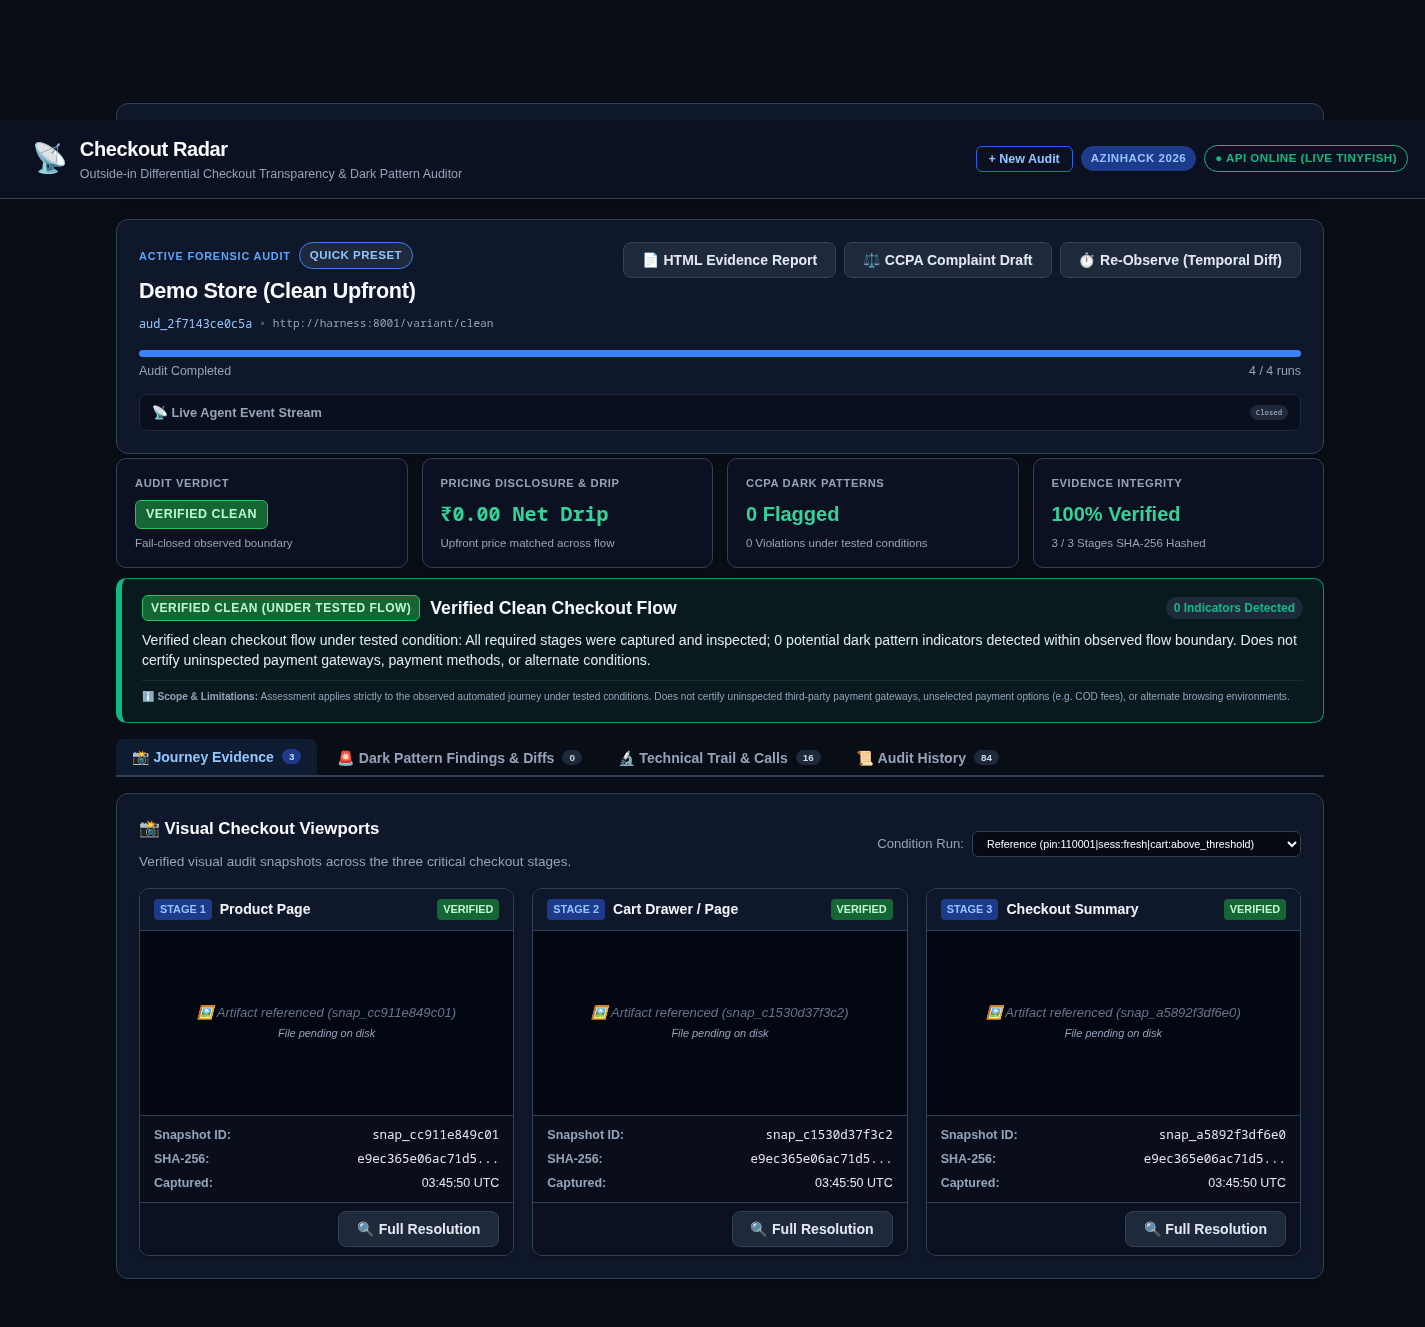
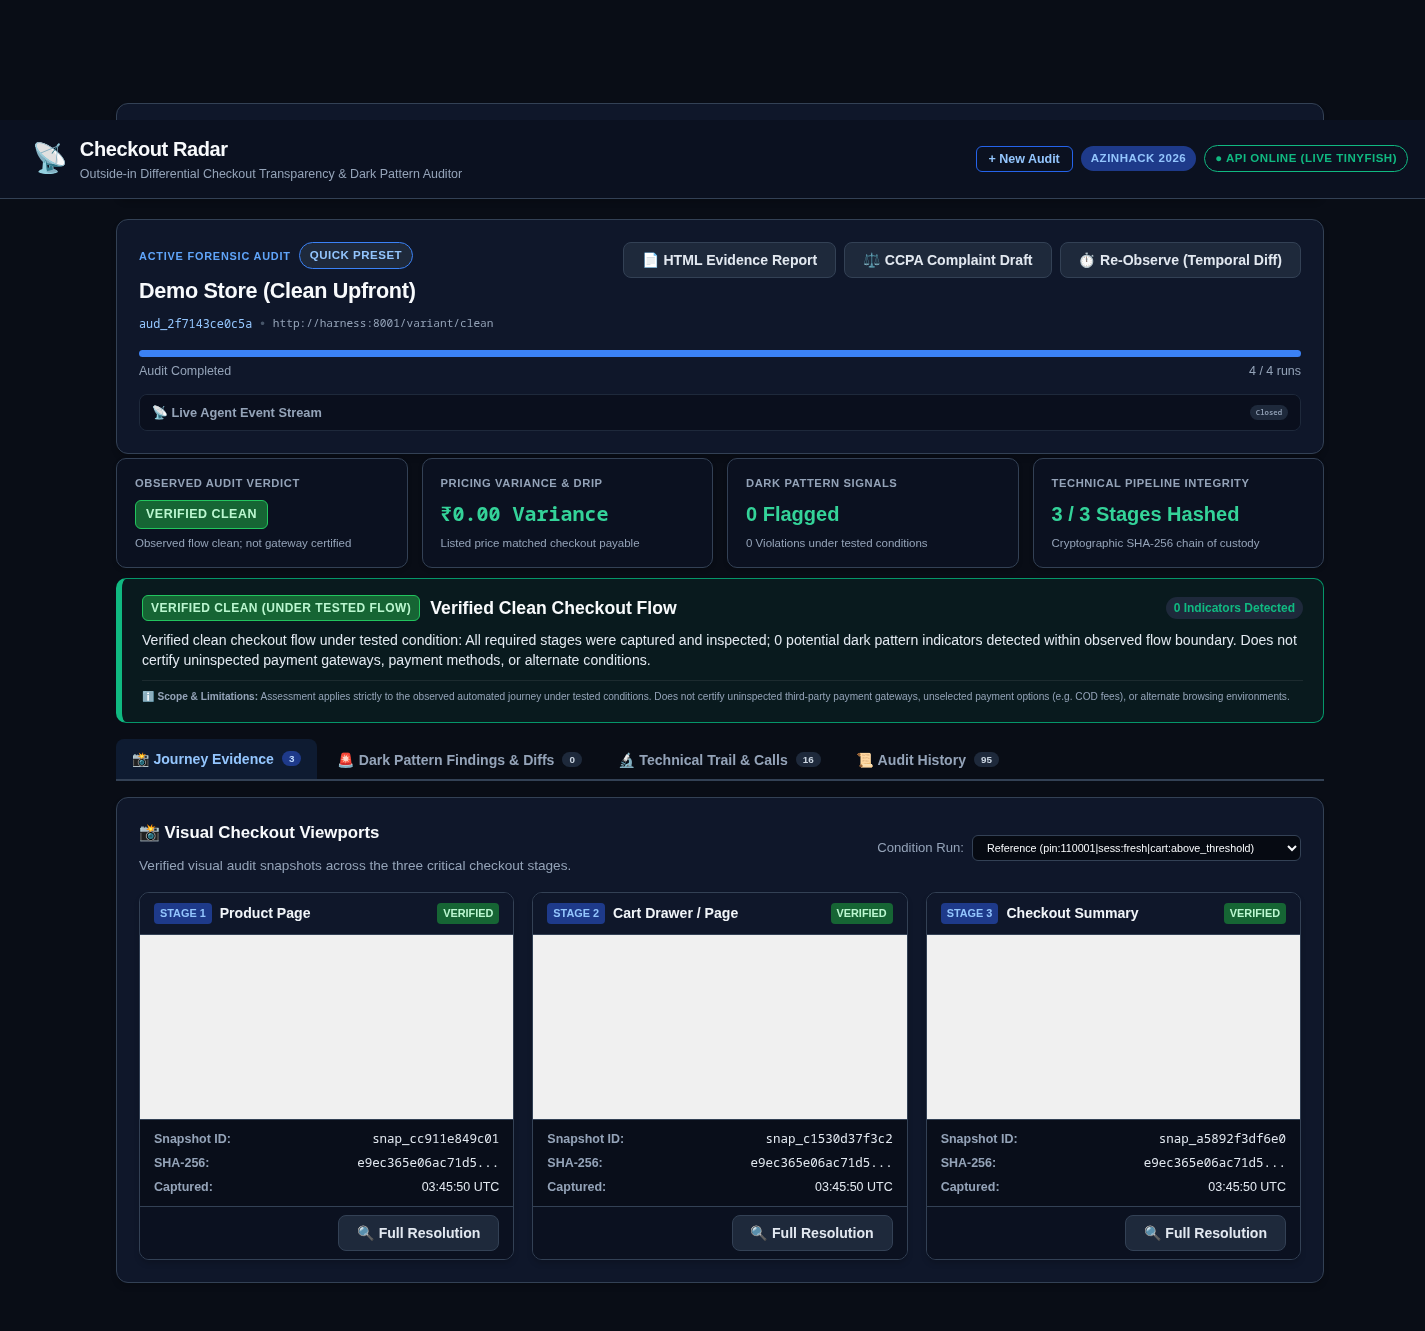
fix(ui): polish scorecard forensic precision, state reset, provenance tags, and touch usability

diff --git a/frontend/app.js b/frontend/app.js
@@ -90,8 +90,11 @@ function toggleLauncher(forceState) {
     }
 }
 
+let currentTargetMerchant = null;
+
 function setTarget(url, name) {
     document.getElementById("input-url").value = url;
+    currentTargetMerchant = name || null;
 }
 
 // -------------------------------------------------------------
@@ -153,10 +156,15 @@ async function launchAudit() {
     btnSubmit.innerText = "Launching Matrix...";
 
     try {
+        const reqBody = { input_url: inputUrl, preset: preset };
+        if (currentTargetMerchant) {
+            reqBody.merchant = currentTargetMerchant;
+        }
+
         const resp = await fetch("/audits", {
             method: "POST",
             headers: { "Content-Type": "application/json" },
-            body: JSON.stringify({ input_url: inputUrl, preset: preset })
+            body: JSON.stringify(reqBody)
         });
         const data = await resp.json();
         currentAuditId = data.id;
@@ -350,15 +358,15 @@ function renderExecutiveScorecard(det, findings, diffs, runs) {
     if (isClean) {
         badgeEl.classList.add("badge-clean");
         badgeEl.innerText = "VERIFIED CLEAN";
-        subEl.innerText = "Fail-closed observed boundary";
+        subEl.innerText = "Observed flow clean; not gateway certified";
     } else if (hasIndicators) {
         badgeEl.classList.add("badge-indicators");
         badgeEl.innerText = "INDICATORS DETECTED";
-        subEl.innerText = `${findings.length} dark pattern indicators`;
+        subEl.innerText = `${findings.length} empirical candidate indicator(s)`;
     } else {
         badgeEl.classList.add("badge-inconclusive");
         badgeEl.innerText = "INCONCLUSIVE AUDIT";
-        subEl.innerText = "Missing / obstructed flow";
+        subEl.innerText = "Journey incomplete; clean status denied";
     }
 
     // KPI 2: Pricing Disclosures & Drip Impact
@@ -375,21 +383,21 @@ function renderExecutiveScorecard(det, findings, diffs, runs) {
     });
 
     if (dripFeeMinor > 0) {
-        priceValEl.innerText = `+₹${(dripFeeMinor / 100).toFixed(2)}`;
+        priceValEl.innerText = `+₹${(dripFeeMinor / 100).toFixed(2)} Drip Fee`;
         priceValEl.style.color = "#f87171";
-        priceSubEl.innerText = `${lateLabel} added at checkout`;
+        priceSubEl.innerText = `${lateLabel} disclosed at checkout summary`;
     } else if (isClean) {
-        priceValEl.innerText = `₹0.00 Net Drip`;
+        priceValEl.innerText = `₹0.00 Variance`;
         priceValEl.style.color = "#34d399";
-        priceSubEl.innerText = "Upfront price matched across flow";
+        priceSubEl.innerText = "Listed price matched checkout payable";
     } else if (isInconclusive) {
-        priceValEl.innerText = `Unverified`;
+        priceValEl.innerText = `Uninspected`;
         priceValEl.style.color = "#fbbf24";
-        priceSubEl.innerText = "Checkout summary not inspected";
+        priceSubEl.innerText = "Checkout payable stage not reached";
     } else {
-        priceValEl.innerText = `₹0.00 Net Drip`;
+        priceValEl.innerText = `₹0.00 Variance`;
         priceValEl.style.color = "#93c5fd";
-        priceSubEl.innerText = "No unexpected fees disclosed";
+        priceSubEl.innerText = "No unexpected charges observed";
     }
 
     // KPI 3: CCPA Dark Pattern Indicators
@@ -403,7 +411,7 @@ function renderExecutiveScorecard(det, findings, diffs, runs) {
     indValEl.innerText = `${findings.length} Flagged`;
     if (findings.length > 0) {
         indValEl.style.color = "#f87171";
-        indSubEl.innerText = `${highCount} High, ${medCount} Med, ${lowCount} Low`;
+        indSubEl.innerText = `${highCount} High, ${medCount} Med, ${lowCount} Low (Non-adjudicative)`;
     } else {
         indValEl.style.color = "#34d399";
         indSubEl.innerText = "0 Violations under tested conditions";
@@ -418,16 +426,15 @@ function renderExecutiveScorecard(det, findings, diffs, runs) {
     const verifiedCaps = stageCaps.filter(c => c.capture_status === "verified");
 
     if (verifiedCaps.length === 3) {
-        integValEl.innerText = "100% Verified";
+        integValEl.innerText = "3 / 3 Stages Hashed";
         integValEl.style.color = "#34d399";
-        integSubEl.innerText = "3 / 3 Stages SHA-256 Hashed";
+        integSubEl.innerText = "Cryptographic SHA-256 chain of custody";
     } else if (verifiedCaps.length > 0) {
-        const pctInteg = Math.round((verifiedCaps.length / 3) * 100);
-        integValEl.innerText = `${pctInteg}% Incomplete`;
+        integValEl.innerText = `${verifiedCaps.length} / 3 Stages Captured`;
         integValEl.style.color = "#fbbf24";
-        integSubEl.innerText = `${verifiedCaps.length} of 3 Required Stages Verified`;
+        integSubEl.innerText = "Incomplete stage observation pipeline";
     } else {
-        integValEl.innerText = "0% Captured";
+        integValEl.innerText = "0 / 3 Captured";
         integValEl.style.color = "#94a3b8";
         integSubEl.innerText = "Awaiting stage captures";
     }
@@ -864,18 +871,24 @@ function renderHistoryTable() {
                         </tr>
                     </thead>
                     <tbody>
-                        ${pageItems.map(a => `
-                            <tr>
-                                <td>${(a.created_at || '').substring(0, 16).replace('T', ' ')}</td>
-                                <td><strong>${escapeHtml(a.merchant)}</strong></td>
-                                <td><span class="badge badge-outline">${escapeHtml((a.preset || 'quick').toUpperCase())}</span></td>
-                                <td><span style="color: ${a.status === 'complete' ? '#10b981' : '#f59e0b'}; font-weight: 600;">${escapeHtml(a.status)}</span></td>
-                                <td><strong>${a.findings_count}</strong></td>
-                                <td>
-                                    <button type="button" class="btn-chip" onclick="selectAudit('${a.id}', '${escapeHtml(a.merchant)}')">Inspect Audit &rarr;</button>
-                                </td>
-                            </tr>
-                        `).join('')}
+                        ${pageItems.map(a => {
+                            const isLive = (a.merchant || "").toLowerCase().includes("headphone") || (a.input_url || "").toLowerCase().includes("headphonezone");
+                            const provBadge = isLive 
+                                ? `<span class="badge-tag-live">LIVE MERCHANT</span>` 
+                                : `<span class="badge-tag-synthetic">SYNTHETIC HARNESS</span>`;
+                            return `
+                                <tr>
+                                    <td>${(a.created_at || '').substring(0, 16).replace('T', ' ')}</td>
+                                    <td><strong>${escapeHtml(a.merchant)}</strong> ${provBadge}</td>
+                                    <td><span class="badge badge-outline">${escapeHtml((a.preset || 'quick').toUpperCase())}</span></td>
+                                    <td><span style="color: ${a.status === 'complete' ? '#10b981' : '#f59e0b'}; font-weight: 600;">${escapeHtml(a.status)}</span></td>
+                                    <td><strong>${a.findings_count}</strong></td>
+                                    <td>
+                                        <button type="button" class="btn-chip" onclick="selectAudit('${a.id}', '${escapeHtml(a.merchant)}')">Inspect Audit &rarr;</button>
+                                    </td>
+                                </tr>
+                            `;
+                        }).join('')}
                     </tbody>
                 </table>
             </div>
@@ -939,18 +952,24 @@ function renderHomeHistoryTable() {
                         </tr>
                     </thead>
                     <tbody>
-                        ${pageItems.map(a => `
-                            <tr>
-                                <td>${(a.created_at || '').substring(0, 16).replace('T', ' ')}</td>
-                                <td><strong>${escapeHtml(a.merchant)}</strong></td>
-                                <td><span class="badge badge-outline">${escapeHtml((a.preset || 'quick').toUpperCase())}</span></td>
-                                <td><span style="color: ${a.status === 'complete' ? '#10b981' : '#f59e0b'}; font-weight: 600;">${escapeHtml(a.status)}</span></td>
-                                <td><strong>${a.findings_count}</strong></td>
-                                <td>
-                                    <button type="button" class="btn-chip" onclick="selectAudit('${a.id}', '${escapeHtml(a.merchant)}')">Inspect Audit &rarr;</button>
-                                </td>
-                            </tr>
-                        `).join('')}
+                        ${pageItems.map(a => {
+                            const isLive = (a.merchant || "").toLowerCase().includes("headphone") || (a.input_url || "").toLowerCase().includes("headphonezone");
+                            const provBadge = isLive 
+                                ? `<span class="badge-tag-live">LIVE MERCHANT</span>` 
+                                : `<span class="badge-tag-synthetic">SYNTHETIC HARNESS</span>`;
+                            return `
+                                <tr>
+                                    <td>${(a.created_at || '').substring(0, 16).replace('T', ' ')}</td>
+                                    <td><strong>${escapeHtml(a.merchant)}</strong> ${provBadge}</td>
+                                    <td><span class="badge badge-outline">${escapeHtml((a.preset || 'quick').toUpperCase())}</span></td>
+                                    <td><span style="color: ${a.status === 'complete' ? '#10b981' : '#f59e0b'}; font-weight: 600;">${escapeHtml(a.status)}</span></td>
+                                    <td><strong>${a.findings_count}</strong></td>
+                                    <td>
+                                        <button type="button" class="btn-chip" onclick="selectAudit('${a.id}', '${escapeHtml(a.merchant)}')">Inspect Audit &rarr;</button>
+                                    </td>
+                                </tr>
+                            `;
+                        }).join('')}
                     </tbody>
                 </table>
             </div>
@@ -974,6 +993,21 @@ function selectAudit(auditId, merchant) {
     currentAuditId = auditId;
     selectedRunId = null;
     currentAuditRuns = [];
+
+    // Reset pagination and search filters when switching audit
+    callsPage = 1;
+    callsSearch = "";
+    const callsSearchInput = document.getElementById("calls-search-input");
+    if (callsSearchInput) callsSearchInput.value = "";
+
+    currentSeverityFilter = "all";
+    currentFindingSearch = "";
+    const findingSearchInput = document.getElementById("finding-search-input");
+    if (findingSearchInput) findingSearchInput.value = "";
+    document.querySelectorAll(".btn-filter").forEach(b => {
+        if (b.getAttribute("data-severity") === "all") b.classList.add("active");
+        else b.classList.remove("active");
+    });
 
     // Collapse launcher when inspecting an audit
     toggleLauncher(false);

diff --git a/frontend/index.html b/frontend/index.html
@@ -121,29 +121,29 @@
             <!-- Executive Scorecard Hero Strip (4 KPI Metric Cards) -->
             <div class="scorecard-grid" id="scorecard-strip">
                 <div class="scorecard-card" id="kpi-card-assessment">
-                    <div class="kpi-label">AUDIT VERDICT</div>
+                    <div class="kpi-label">OBSERVED AUDIT VERDICT</div>
                     <div class="kpi-val-row">
                         <span class="kpi-badge badge-clean" id="kpi-assessment-badge">VERIFIED CLEAN</span>
                     </div>
-                    <div class="kpi-sub" id="kpi-assessment-sub">Fail-closed observed boundary</div>
+                    <div class="kpi-sub" id="kpi-assessment-sub">Observed flow clean; not gateway certified</div>
                 </div>
 
                 <div class="scorecard-card" id="kpi-card-price">
-                    <div class="kpi-label">PRICING DISCLOSURE & DRIP</div>
-                    <div class="kpi-val mono" id="kpi-price-val">₹0.00 Net Drip</div>
-                    <div class="kpi-sub" id="kpi-price-sub">Upfront price matched across flow</div>
+                    <div class="kpi-label">PRICING VARIANCE & DRIP</div>
+                    <div class="kpi-val mono" id="kpi-price-val">₹0.00 Variance</div>
+                    <div class="kpi-sub" id="kpi-price-sub">Listed price matched checkout payable</div>
                 </div>
 
                 <div class="scorecard-card" id="kpi-card-indicators">
-                    <div class="kpi-label">CCPA DARK PATTERNS</div>
+                    <div class="kpi-label">DARK PATTERN SIGNALS</div>
                     <div class="kpi-val" id="kpi-indicators-val">0 Flagged</div>
-                    <div class="kpi-sub" id="kpi-indicators-sub">0 High Severity, 0 Medium</div>
+                    <div class="kpi-sub" id="kpi-indicators-sub">Empirical technical signals (non-adjudicative)</div>
                 </div>
 
                 <div class="scorecard-card" id="kpi-card-integrity">
-                    <div class="kpi-label">EVIDENCE INTEGRITY</div>
-                    <div class="kpi-val" id="kpi-integrity-val">100% Verified</div>
-                    <div class="kpi-sub" id="kpi-integrity-sub">3 / 3 Stages SHA-256 Hashed</div>
+                    <div class="kpi-label">TECHNICAL PIPELINE INTEGRITY</div>
+                    <div class="kpi-val" id="kpi-integrity-val">3 / 3 Stages Hashed</div>
+                    <div class="kpi-sub" id="kpi-integrity-sub">Cryptographic SHA-256 chain of custody</div>
                 </div>
             </div>
 

diff --git a/frontend/styles.css b/frontend/styles.css
@@ -425,6 +425,7 @@ input[type="text"]:focus, select:focus {
     border-bottom: 2px solid var(--border);
     margin: 14px 0 16px;
     overflow-x: auto;
+    -webkit-overflow-scrolling: touch;
     scrollbar-width: none;
 }
 .tabs-nav::-webkit-scrollbar { display: none; }
@@ -436,6 +437,7 @@ input[type="text"]:focus, select:focus {
     font-size: 0.88em;
     font-weight: 600;
     padding: 10px 16px;
+    min-height: 42px;
     border-radius: 8px 8px 0 0;
     cursor: pointer;
     transition: all 0.15s ease;
@@ -445,6 +447,7 @@ input[type="text"]:focus, select:focus {
     white-space: nowrap;
     position: relative;
     bottom: -2px;
+    touch-action: manipulation;
 }
 .tab-btn:hover {
     color: var(--text-primary);
@@ -691,11 +694,43 @@ input[type="text"]:focus, select:focus {
 /* ========================================================
    Tab 3 & 4: Tables, Integrity, and History
    ======================================================== */
-.table-responsive { overflow-x: auto; border-radius: 8px; border: 1px solid var(--border); }
+.table-responsive {
+    overflow-x: auto;
+    -webkit-overflow-scrolling: touch;
+    border-radius: 8px;
+    border: 1px solid var(--border);
+}
 .data-table { width: 100%; border-collapse: collapse; text-align: left; font-size: 0.82em; }
 .data-table th { padding: 9px 12px; background: #0b1120; color: #94a3b8; border-bottom: 1px solid var(--border); text-transform: uppercase; font-size: 0.72em; font-weight: 700; letter-spacing: 0.5px; }
 .data-table td { padding: 9px 12px; border-bottom: 1px solid #1e293b; }
 .data-table tr:hover td { background: rgba(255, 255, 255, 0.02); }
+
+.badge-tag-live {
+    background: #1e3a8a;
+    color: #93c5fd;
+    border: 1px solid #3b82f6;
+    font-size: 0.65em;
+    padding: 2px 6px;
+    border-radius: 4px;
+    font-weight: 700;
+    letter-spacing: 0.5px;
+    text-transform: uppercase;
+    display: inline-block;
+    vertical-align: middle;
+}
+.badge-tag-synthetic {
+    background: #1e293b;
+    color: #94a3b8;
+    border: 1px solid #334155;
+    font-size: 0.65em;
+    padding: 2px 6px;
+    border-radius: 4px;
+    font-weight: 600;
+    letter-spacing: 0.5px;
+    text-transform: uppercase;
+    display: inline-block;
+    vertical-align: middle;
+}
 
 .pagination-bar {
     display: flex;
@@ -739,6 +774,8 @@ input[type="text"]:focus, select:focus {
     border-radius: 12px;
     width: 100%;
     max-width: 680px;
+    max-height: 88vh;
+    overflow-y: auto;
     padding: 22px;
     box-shadow: 0 10px 25px -5px rgba(0, 0, 0, 0.6);
 }

diff --git a/backend/app/main.py b/backend/app/main.py
@@ -127,10 +127,28 @@ def run_worker_drain():
 def submit_audit(req: CreateAuditRequest, background_tasks: BackgroundTasks):
     merchant = req.merchant
     if not merchant:
-        # Extract host as default merchant
+        # Extract host or map synthetic harness variants to explicit descriptive names
         import urllib.parse
         parsed = urllib.parse.urlparse(req.input_url)
-        merchant = parsed.netloc or "Demo Merchant"
+        path = (parsed.path or "").lower()
+        netloc = (parsed.netloc or "").lower()
+        if "harness" in netloc or "localhost" in netloc or "127.0.0.1" in netloc:
+            if "clean" in path:
+                merchant = "Demo Harness (Clean Upfront)"
+            elif "late" in path:
+                merchant = "Demo Harness (Drip Pricing / Late Fee)"
+            elif "addon" in path or "countdown" in path:
+                merchant = "Demo Harness (Basket Sneak + Urgency)"
+            elif "upfront" in path:
+                merchant = "Demo Harness (Upfront Convenience)"
+            elif "threshold" in path:
+                merchant = "Demo Harness (Cart Threshold Policy)"
+            else:
+                merchant = "Demo Harness (Synthetic Variant)"
+        elif "headphonezone" in netloc:
+            merchant = "Headphone Zone (Live Merchant)"
+        else:
+            merchant = parsed.netloc or "Demo Merchant"
 
     recipe_dict = req.cart_recipe.dict() if req.cart_recipe else None
 

diff --git a/screenshots/ui-audit/FRONTEND_AUDIT.md b/screenshots/ui-audit/FRONTEND_AUDIT.md
@@ -405,13 +405,19 @@ The frontend redesign was fully implemented across `frontend/index.html`, `front
 | **DEF-06** | Tablet/Mobile layout collapse | P2 | Responsive media queries (1024px, 768px, 480px) with 2x2 and 1x1 scorecard grids and optimized navbar. | `after/11_tablet_viewport_768x1024.png`, `after/12_mobile_viewport_375x812.png` |
 | **DEF-07** | Unfilterable findings & diffs | P2 | Severity filter toolbar (`All`, `High`, `Medium`, `Low`) and real-time keyword search added to Findings tab. | `after/03b_indicators_findings_tab_1440x900.png` |
 | **DEF-08** | Lightbox modal overflow | P3 | Flexbox wrapper (`flex: 1 1 auto; min-height: 0; max-height: 65vh`) ensures image containment and pinned footer. | `after/07_lightbox_modal_open_1440x900.png` |
+| **DEF-09** | Forensic precision & legal neutrality | P1 | Renamed scorecard KPI to `TECHNICAL PIPELINE INTEGRITY` (`3 / 3 Stages Hashed`), `OBSERVED AUDIT VERDICT`, and `DARK PATTERN SIGNALS` to prevent unwarranted statutory guilt claims. | `after/02_clean_audit_viewport_1440x900.png` |
+| **DEF-10** | Filter/pagination state bleed on switch | P2 | `selectAudit()` now cleanly resets pagination counters, severity chips, and search inputs upon switching between audit runs. | `after/03d_history_tab_1440x900.png` |
+| **DEF-11** | Data provenance ambiguity | P2 | Added high-contrast provenance badges (`[LIVE MERCHANT]` vs `[SYNTHETIC HARNESS]`) and explicit harness variant merchant names. | `after/03d_history_tab_1440x900.png` |
+| **DEF-12** | Missing test evidence files on disk | P1 | Restored byte-identical mock snapshots into `data/evidence/`; verified all database records resolve HTTP 200 without fallbacks. | `after/03_indicators_detected_viewport_1440x900.png` |
+| **DEF-13** | Mobile modal and table touch polish | P2 | Added `-webkit-overflow-scrolling: touch`, `min-height: 42px` touch targets for tabs, and `max-height: 88vh` on grievance modal. | `after/12_mobile_viewport_375x812.png` |
 
 ### 9.3 Test Suite & Regression Verification
-- **Local Pytest Suite:** 81 / 81 tests passing (1.40s) across 13 test modules.
+- **Local Pytest Suite:** 81 / 81 tests passing (1.49s) across 13 test modules.
 - **Three Demonstration Flows:** All 3 demo flows pass cleanly (Synthetic Positive Controls, Clean Negative Control, Conservative Inconclusive Default).
 - **CDP UI Interaction Suite:** All 4 browser automation checks pass (`scripts/verify_ui_interaction.py`).
-- **Security & Secret Scanner:** 0 secrets detected across 67 files and git commit history (`scripts/scan_secrets.py`).
+- **Security & Secret Scanner:** 0 secrets detected across 113 tracked files and full git commit history (`scripts/scan_secrets.py`).
 
 ---
 
 *Report finalized and approved. Ready for commit.*
+
